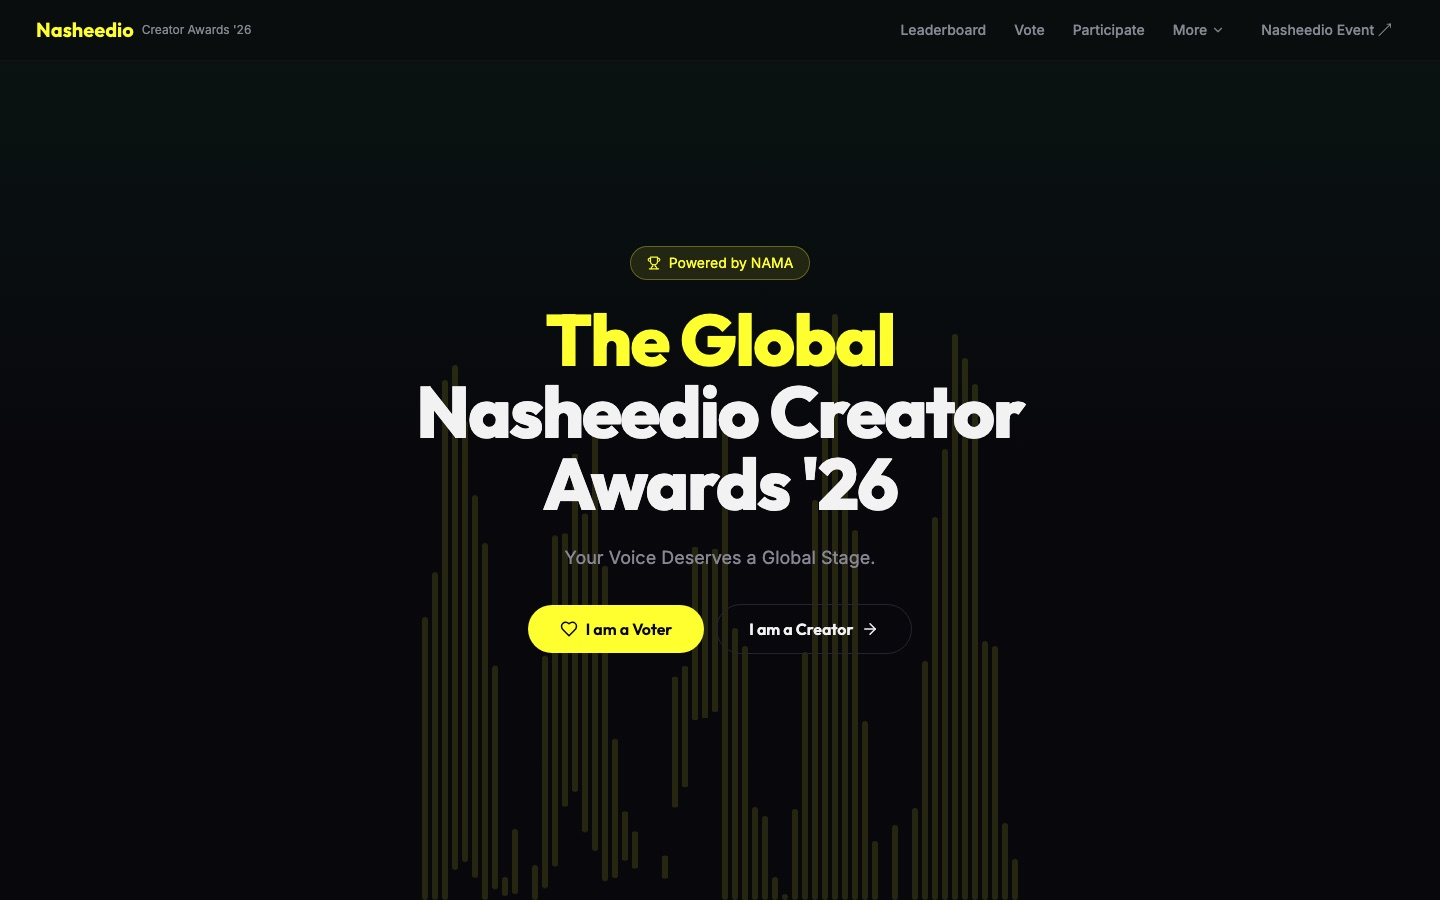
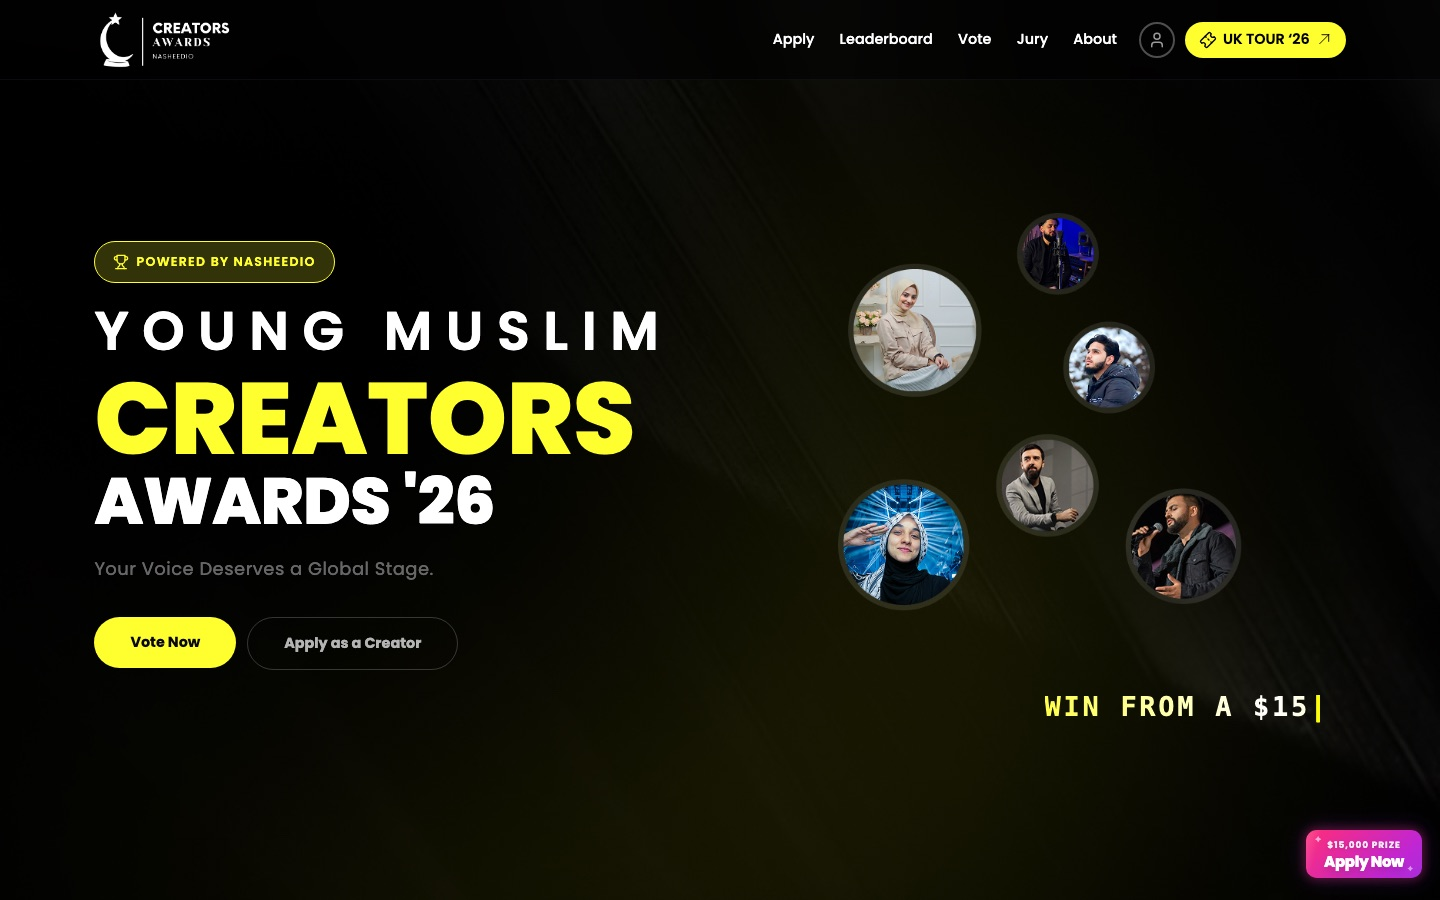
Add How I work block, case-study glance card and updated links
- Replace Beyond the code pills with a How I work section (4 principles)
- Add an At a glance card (metrics, stack, live status) to case-study headers
- Link Nasheedio web app, Creator Studio and Creator Awards domains with
  fresh screenshots
- Add Angel Home Salon App Store link

diff --git a/src/app/work/[slug]/page.tsx b/src/app/work/[slug]/page.tsx
@@ -56,21 +56,60 @@ export default async function CaseStudyPage({ params }: { params: Promise<{ slug
               ← All work
             </Link>
 
-            <div className="mt-10 flex flex-wrap items-center gap-4">
-              {p.icon && <Image src={p.icon} alt="" width={56} height={56} className="fade-up rounded-2xl" />}
-              <p className="fade-up font-mono text-sm uppercase tracking-widest" style={{ color: p.accent, "--d": "80ms" } as React.CSSProperties}>
-                {p.kind}
-              </p>
+            <div className="grid items-end gap-12 lg:grid-cols-[1.35fr_1fr]">
+              <div>
+                <div className="mt-10 flex flex-wrap items-center gap-4">
+                  {p.icon && <Image src={p.icon} alt="" width={56} height={56} className="fade-up rounded-2xl" />}
+                  <p className="fade-up font-mono text-sm uppercase tracking-widest" style={{ color: p.accent, "--d": "80ms" } as React.CSSProperties}>
+                    {p.kind}
+                  </p>
+                </div>
+                <h1
+                  className="fade-up mt-4 font-display text-[clamp(3rem,8vw,6.5rem)] font-extrabold leading-[0.9] tracking-tight"
+                  style={{ "--d": "120ms" } as React.CSSProperties}
+                >
+                  {p.name}
+                </h1>
+                <p className="fade-up mt-8 max-w-2xl text-xl text-paper/70" style={{ "--d": "220ms" } as React.CSSProperties}>
+                  {p.summary}
+                </p>
+              </div>
+
+              {/* At a glance */}
+              <aside
+                data-spot
+                className="glow-card fade-up rounded-3xl border border-white/10 bg-white/[0.04] p-6 backdrop-blur-md [--glow:var(--accent)]"
+                style={{ "--d": "300ms" } as React.CSSProperties}
+              >
+                <div className="flex items-center justify-between">
+                  <p className="font-mono text-xs uppercase tracking-[0.2em] text-paper/50">At a glance</p>
+                  {p.links?.length ? (
+                    <span className="flex items-center gap-2 rounded-full bg-lime/10 px-3 py-1 text-xs font-semibold text-lime">
+                      <span className="pulse-dot size-1.5 rounded-full bg-lime" /> Live
+                    </span>
+                  ) : (
+                    <span className="rounded-full bg-white/10 px-3 py-1 text-xs font-semibold text-paper/60">Private</span>
+                  )}
+                </div>
+                <dl className="mt-5 grid grid-cols-2 gap-px overflow-hidden rounded-2xl bg-white/10">
+                  {cs.metrics.map((m) => (
+                    <div key={m.label} className="flex flex-col bg-ink-2/90 p-4">
+                      <dt className="order-2 mt-1 text-xs text-paper/50">{m.label}</dt>
+                      <dd className="font-display text-2xl font-bold" style={{ color: p.accent }}>
+                        {m.value}
+                      </dd>
+                    </div>
+                  ))}
+                </dl>
+                <ul className="mt-5 flex flex-wrap gap-1.5">
+                  {p.stack.slice(0, 6).map((s) => (
+                    <li key={s} className="rounded-full border border-white/10 px-2.5 py-1 font-mono text-[11px] text-paper/70">
+                      {s}
+                    </li>
+                  ))}
+                </ul>
+              </aside>
             </div>
-            <h1
-              className="fade-up mt-4 max-w-5xl font-display text-[clamp(3rem,9vw,7.5rem)] font-extrabold leading-[0.9] tracking-tight"
-              style={{ "--d": "120ms" } as React.CSSProperties}
-            >
-              {p.name}
-            </h1>
-            <p className="fade-up mt-8 max-w-2xl text-xl text-paper/70" style={{ "--d": "220ms" } as React.CSSProperties}>
-              {p.summary}
-            </p>
 
             <dl
               className="fade-up mt-12 grid gap-6 border-t border-white/10 pt-8 sm:grid-cols-2 lg:grid-cols-4"
@@ -141,21 +180,7 @@ export default async function CaseStudyPage({ params }: { params: Promise<{ slug
         {/* ---------- Metrics ---------- */}
         <section className="surface-light sheet grain py-20 md:py-28">
           <div className="mx-auto max-w-7xl px-6">
-            <div className="grid grid-cols-2 gap-px overflow-hidden rounded-3xl bg-ink/10 md:grid-cols-4">
-              {cs.metrics.map((m, i) => (
-                <div
-                  key={m.label}
-                  data-reveal
-                  style={{ "--d": `${i * 80}ms` } as React.CSSProperties}
-                  className="bg-paper p-6 md:p-8"
-                >
-                  <p className="font-display text-4xl font-extrabold tracking-tight md:text-5xl">{m.value}</p>
-                  <p className="mt-2 text-sm text-ink/60">{m.label}</p>
-                </div>
-              ))}
-            </div>
-
-            <div className="mt-20 grid gap-10 lg:grid-cols-[1fr_2fr]">
+            <div className="grid gap-10 lg:grid-cols-[1fr_2fr]">
               <p data-reveal className="font-mono text-sm uppercase tracking-[0.2em] text-coral">Overview</p>
               <p data-reveal className="font-display text-2xl leading-snug md:text-3xl">
                 {cs.overview}

diff --git a/src/components/Skills.tsx b/src/components/Skills.tsx
@@ -70,6 +70,29 @@ function BarsArt() {
 const art = [OrbitArt, MorphArt, TerminalArt, BarsArt];
 const spans = ["md:col-span-2 lg:col-span-4", "md:col-span-1 lg:col-span-2", "md:col-span-1 lg:col-span-2", "md:col-span-2 lg:col-span-4"];
 
+const principles = [
+  {
+    title: "Own it end to end",
+    text: "UI, API, database and release — I take features from idea to production.",
+    icon: "M12 2l3 6 6 .9-4.5 4.4 1 6.2L12 16.5 6.5 19.5l1-6.2L3 8.9 9 8z",
+  },
+  {
+    title: "Ship, then sharpen",
+    text: "Small, frequent releases — then measure and optimize, like the 25% faster loads at Plutonic.",
+    icon: "M13 2 3 14h9l-1 8 10-12h-9l1-8z",
+  },
+  {
+    title: "Build for the team",
+    text: "Admin tools and dashboards the Nasheedio content team and leadership rely on.",
+    icon: "M17 21v-2a4 4 0 0 0-4-4H5a4 4 0 0 0-4 4v2M9 11a4 4 0 1 0 0-8 4 4 0 0 0 0 8M23 21v-2a4 4 0 0 0-3-3.87M16 3.13a4 4 0 0 1 0 7.75",
+  },
+  {
+    title: "Remote-ready",
+    text: "Async, clear updates with a Dubai-based team and direct clients — no surprises.",
+    icon: "M12 22a10 10 0 1 0 0-20 10 10 0 0 0 0 20M2 12h20M12 2a15 15 0 0 1 0 20M12 2a15 15 0 0 0 0 20",
+  },
+];
+
 export default function Skills() {
   return (
     <section id="skills" className="surface-dark sheet grain py-28 md:py-36">
@@ -125,18 +148,42 @@ export default function Skills() {
 
           <article
             data-reveal
-            className="flex flex-col justify-between gap-6 rounded-3xl bg-lime p-7 text-ink md:col-span-3 lg:col-span-6 lg:flex-row lg:items-center"
+            className="relative overflow-hidden rounded-3xl bg-lime p-7 text-ink md:col-span-3 md:p-10 lg:col-span-6"
           >
-            <p className="font-display text-2xl font-bold md:text-3xl">Beyond the code</p>
-            <ul className="flex flex-wrap gap-3">
-              {["Effective collaboration", "Leadership", "Problem-solving", "Client communication", "Ownership end-to-end"].map(
-                (s) => (
-                  <li key={s} className="rounded-full border-2 border-ink px-4 py-2 font-medium transition-colors hover:bg-ink hover:text-lime">
+            <div className="pointer-events-none absolute -right-16 -top-16 size-64 rounded-full border-[28px] border-ink/5" aria-hidden />
+            <div className="relative flex flex-wrap items-end justify-between gap-4">
+              <div>
+                <p className="font-mono text-xs uppercase tracking-[0.2em] text-ink/60">Beyond the code</p>
+                <h3 className="mt-2 font-display text-3xl font-bold tracking-tight md:text-4xl">How I work</h3>
+              </div>
+              <ul className="flex flex-wrap gap-2">
+                {["Collaboration", "Leadership", "Problem-solving", "Client communication"].map((s) => (
+                  <li key={s} className="rounded-full border-2 border-ink/80 px-3.5 py-1.5 text-sm font-semibold transition-colors hover:bg-ink hover:text-lime">
                     {s}
                   </li>
-                ),
-              )}
-            </ul>
+                ))}
+              </ul>
+            </div>
+
+            <div className="relative mt-8 grid gap-4 sm:grid-cols-2 lg:grid-cols-4">
+              {principles.map((pr, i) => (
+                <div
+                  key={pr.title}
+                  className="group rounded-2xl border-2 border-ink/10 bg-paper/50 p-5 transition-all duration-500 hover:-translate-y-1 hover:border-ink hover:bg-ink hover:text-paper"
+                >
+                  <div className="flex items-center justify-between">
+                    <span className="grid size-11 place-items-center rounded-xl bg-ink text-lime transition-colors duration-500 group-hover:bg-lime group-hover:text-ink">
+                      <svg viewBox="0 0 24 24" className="size-5" fill="none" stroke="currentColor" strokeWidth="2" strokeLinecap="round" strokeLinejoin="round" aria-hidden>
+                        <path d={pr.icon} />
+                      </svg>
+                    </span>
+                    <span className="font-mono text-xs text-ink/40 group-hover:text-paper/40">0{i + 1}</span>
+                  </div>
+                  <p className="mt-4 font-display text-lg font-bold">{pr.title}</p>
+                  <p className="mt-1.5 text-sm text-ink/70 group-hover:text-paper/70">{pr.text}</p>
+                </div>
+              ))}
+            </div>
           </article>
         </div>
       </div>

diff --git a/src/data/portfolio.ts b/src/data/portfolio.ts
@@ -192,10 +192,11 @@ export const projects: Project[] = [
     stack: ["Next.js", "React", "TypeScript", "Tailwind", "Material UI", "Zustand", "TanStack Query", "Firebase", "Node.js", "Express", "PostgreSQL", "Google Cloud Storage"],
     accent: "#c8f135",
     cover: "/projects/nasheedio-app.jpg",
-    gallery: ["/projects/nasheedio-awards.jpg", "/projects/nasheedio.jpg"],
+    gallery: ["/projects/nasheedio-creators.jpg", "/projects/nasheedio-awards.jpg"],
     links: [
       { label: "Web app", href: "https://app.nasheedio.com" },
-      { label: "Creator Awards '26", href: "https://nasheediocreatoraward.vercel.app" },
+      { label: "Creator Studio", href: "https://creators.nasheedio.com" },
+      { label: "Creator Awards '26", href: "https://awards.nasheedio.com" },
     ],
     featured: true,
     caseStudy: {
@@ -309,7 +310,7 @@ export const projects: Project[] = [
     category: "Client",
     platforms: ["Mobile", "Web", "Backend"],
     summary:
-      "Customer app, provider app, admin backend and website for a Delhi at-home salon brand — live on Google Play with a 5.0 rating.",
+      "Customer app, provider app, admin backend and website for a Delhi at-home salon brand — live on the App Store and Google Play.",
     stack: ["Next.js", "PHP", "CodeIgniter", "MySQL", "Firebase", "Codemagic", "App Store", "Google Play", "Flutter"],
     accent: "#ff4fa3",
     cover: "/projects/anglehome-web.jpg",
@@ -318,6 +319,7 @@ export const projects: Project[] = [
     links: [
       { label: "Website", href: "https://angelhomesalon.com" },
       { label: "Google Play", href: "https://play.google.com/store/apps/details?id=com.angelhomesalon.customer" },
+      { label: "App Store", href: "https://apps.apple.com/in/app/angel-home-salon/id6786026628" },
     ],
     featured: true,
     caseStudy: {
@@ -328,7 +330,7 @@ export const projects: Project[] = [
         "Angel Home Salon brings salon services to customers' homes across Delhi NCR. I took a white-label on-demand services platform (eDemand) and turned it into their product — rebranding, new features, store compliance and launch — across four codebases.",
       metrics: [
         { value: "4", label: "Codebases shipped" },
-        { value: "5.0★", label: "Google Play rating" },
+        { value: "iOS + Android", label: "Live on both stores" },
         { value: "2", label: "Store releases" },
         { value: "6 mo", label: "Launch & maintenance" },
       ],
